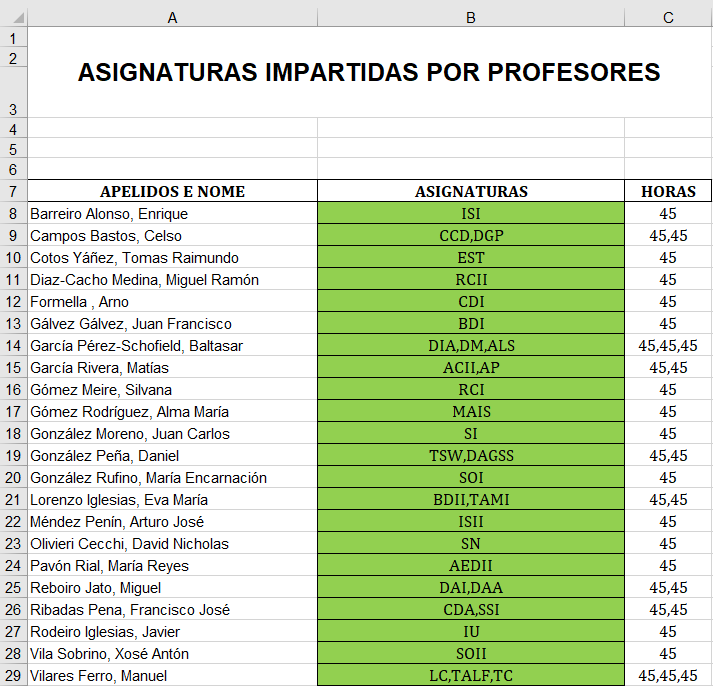
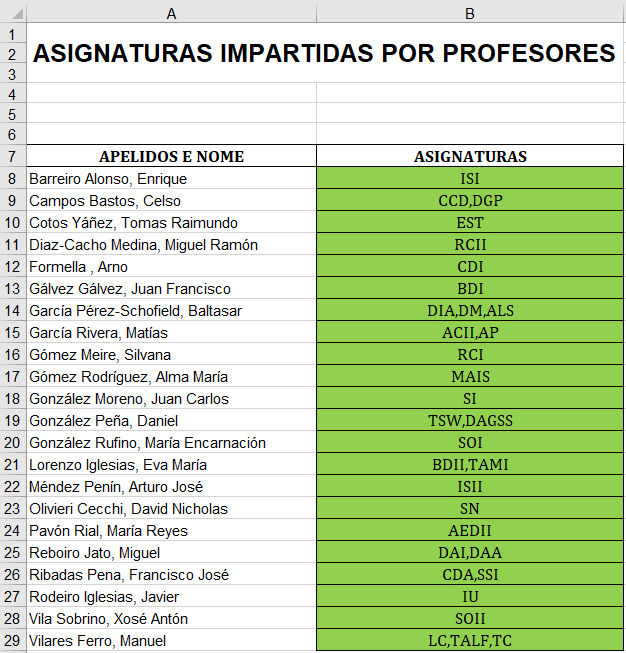
cambio de imagen para importar profes y cambio en el menu, ahora configuración lleva tilde

diff --git a/src/app/usuarios/importar-profesores-grupos/importar-profesores-grupos.component.html b/src/app/usuarios/importar-profesores-grupos/importar-profesores-grupos.component.html
@@ -8,7 +8,7 @@
     <button type="button" class="close" data-dismiss="alert" aria-label="Close" (click)="cambiarinfo()"><span aria-hidden="true">&times;</span></button>
     Antes de realizar la importación, asegúrate de tener introducidas las asignaturas y los grupos reducidos sobre los que vas a realizar esa importación. Fíjate bien en la siguiente imagen, pues el fichero a subir debe seguir este formato.
   </div>
-  <img src="../assets/formatoprofes.PNG" alt="formato del excel" height="343" width="356.5" />
+  <img src="../assets/formatoprofes.PNG" alt="formato del excel" height="326.5" width="313" />
   <br/>
   <label for="subirarchivo">SUBIR ARCHIVO</label>
   <input class="mt-4" type="file" value="SUBIR" id="subirarchivo" accept=".xlsx,.xls" (change)="subirFichero($event)" />

diff --git a/src/app/cabecera/cabecera.component.html b/src/app/cabecera/cabecera.component.html
@@ -32,7 +32,7 @@
             <li *ngIf="tipo==1" type="button" class="ml-4 boton" (click)="router.navigate(['/asignaturas'])">ASIGNATURAS</li>
             <li *ngIf="tipo==1" type="button" class="ml-4 boton" (click)="router.navigate(['/gruposreducidos'])">GRUPOS REDUCIDOS</li>
             <li *ngIf="tipo==1" type="button" class="ml-4 boton" (click)="router.navigate(['/menucalendario'])">HORARIO</li>
-            <li *ngIf="tipo==1" type="button" class="ml-4 boton" (click)="router.navigate(['/configuracion'])">CONFIGURACION</li>
+            <li *ngIf="tipo==1" type="button" class="ml-4 boton" (click)="router.navigate(['/configuracion'])">CONFIGURACIÓN</li>
           </ul>
         </div>
         <div *ngIf="tipo==2">
